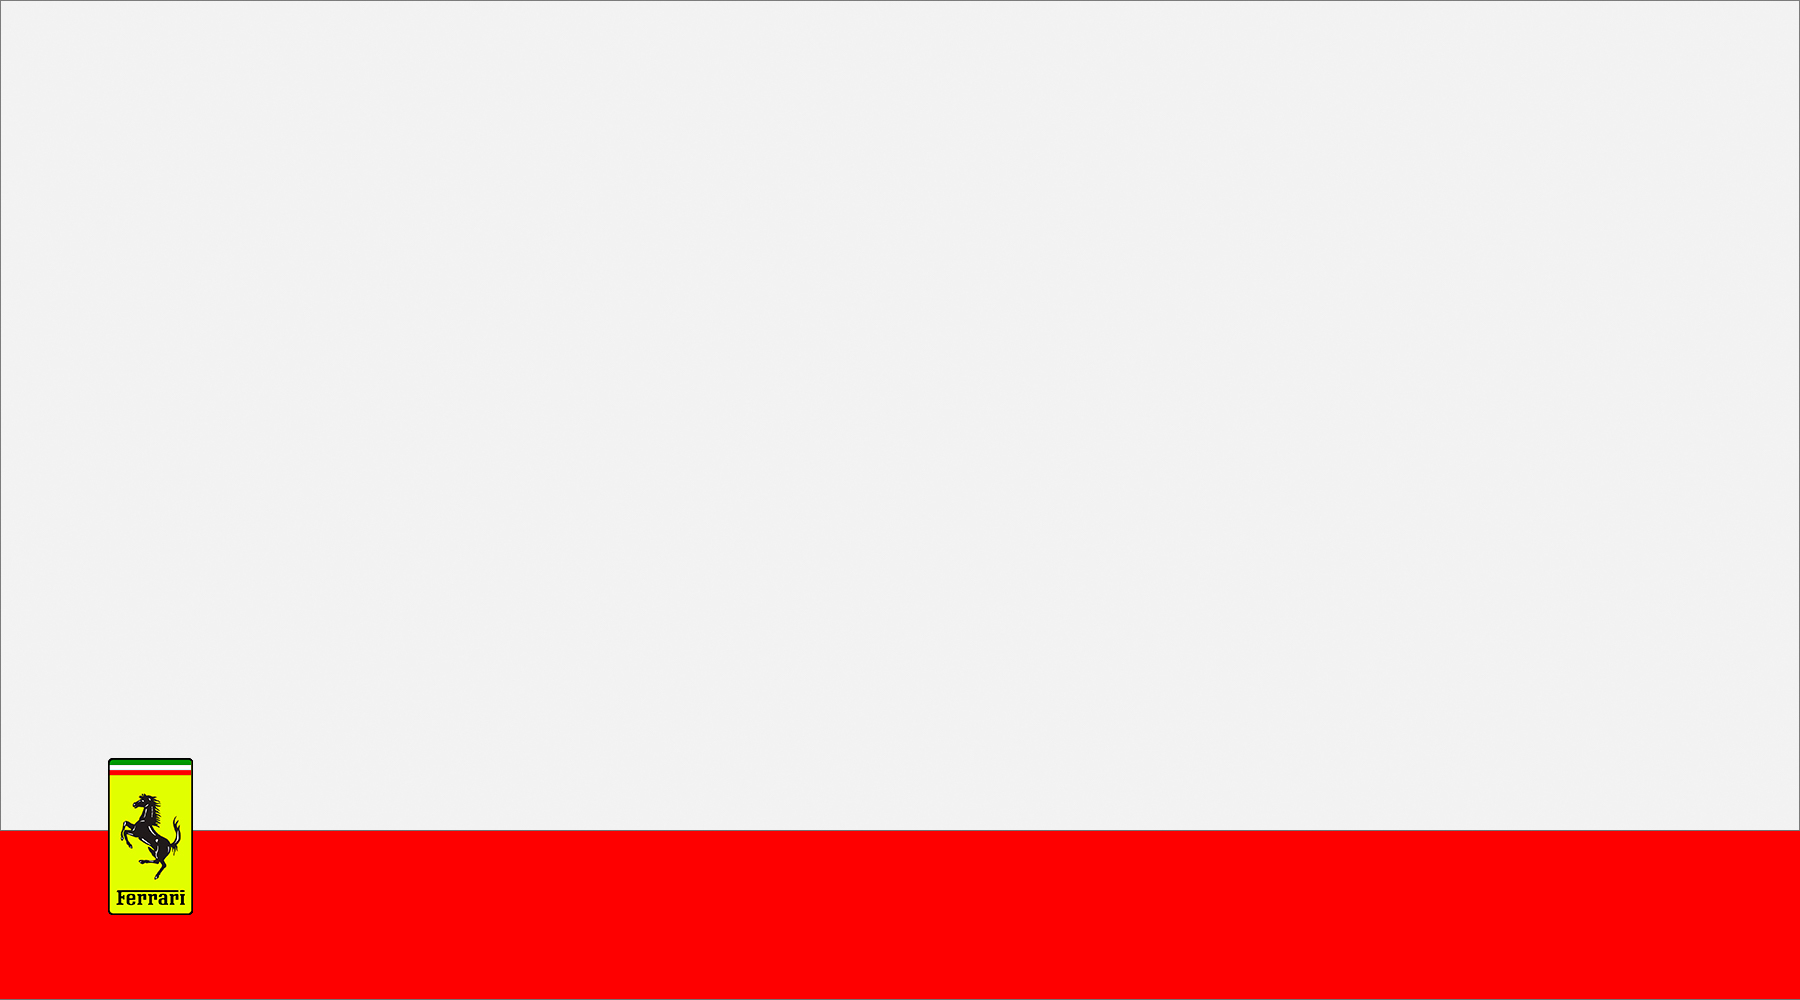
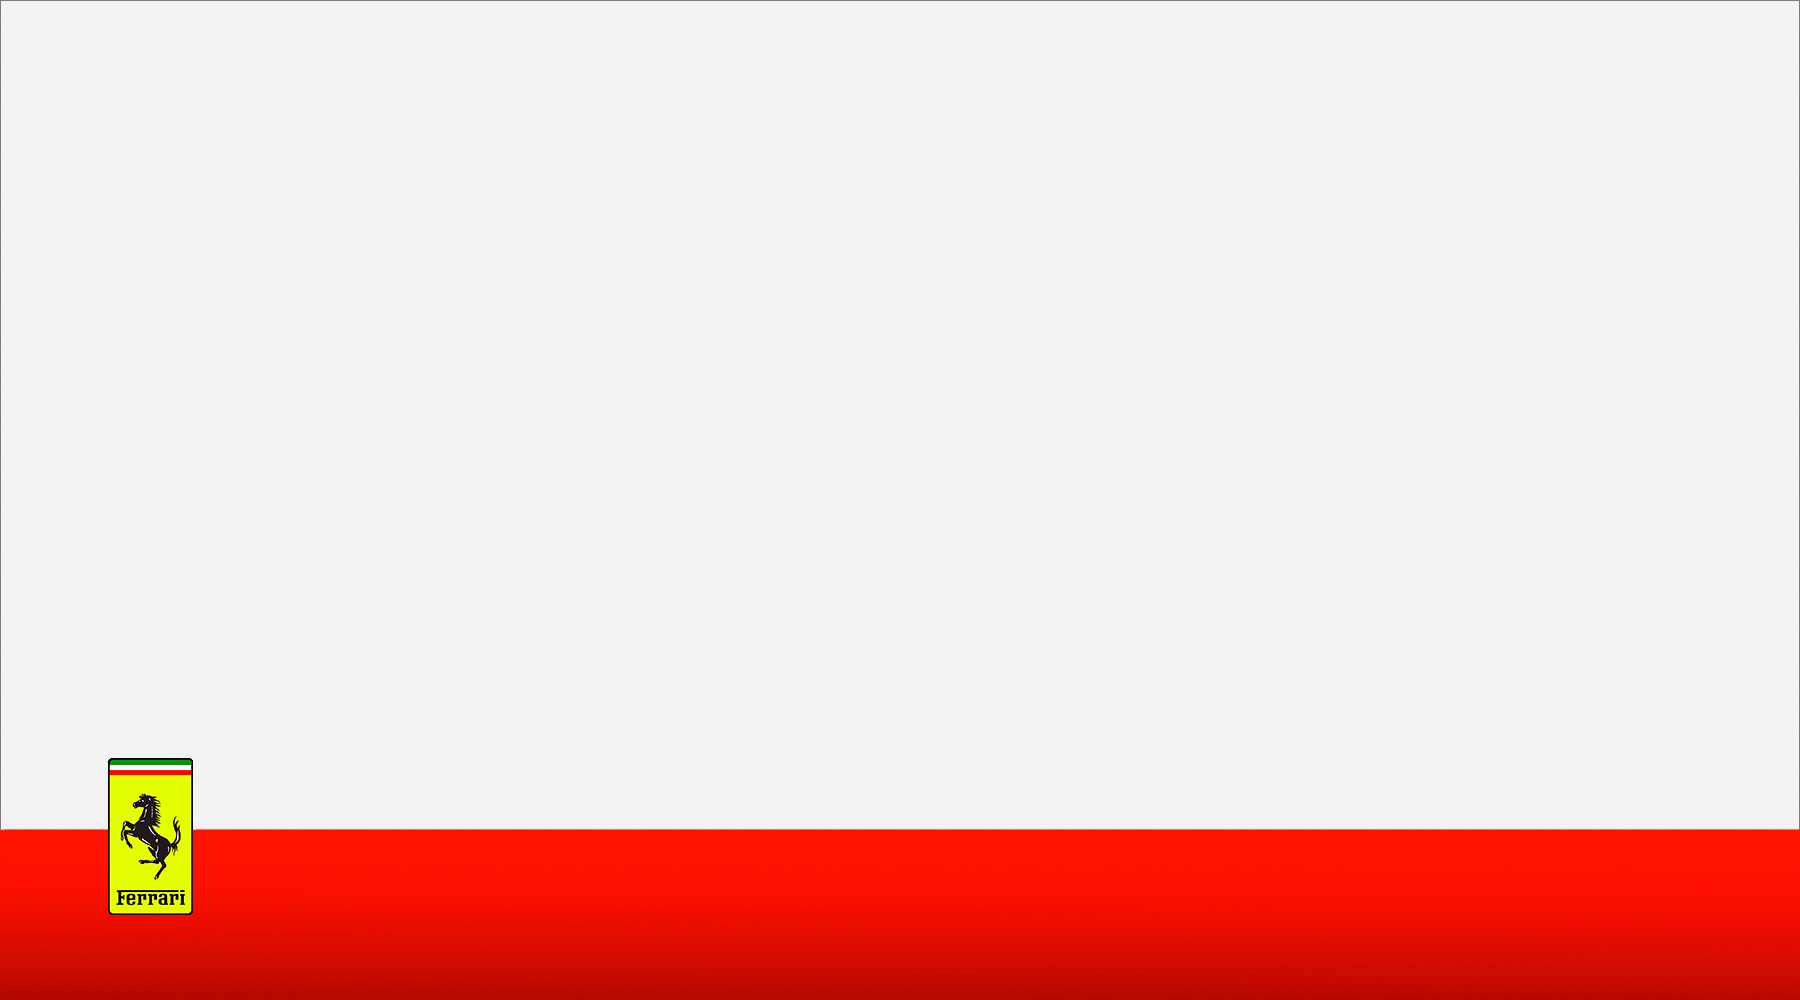
nye baggrunde 20-05

Changed region(s): [[0.0, 0.93, 1.0, 1.0]]

diff --git a/TRCFirstYearProject/src/styles/StyleClass.java b/TRCFirstYearProject/src/styles/StyleClass.java
@@ -12,7 +12,7 @@ public class StyleClass {
 	private int sceney = 1000;
 	private int scenex = 1800;
 
-	private String grey = "#707070";
+	private String grey = "#303030";
 	private String red = "#e33635";
 	private String white = "#ffffff";
 	private String black = "#000000";
